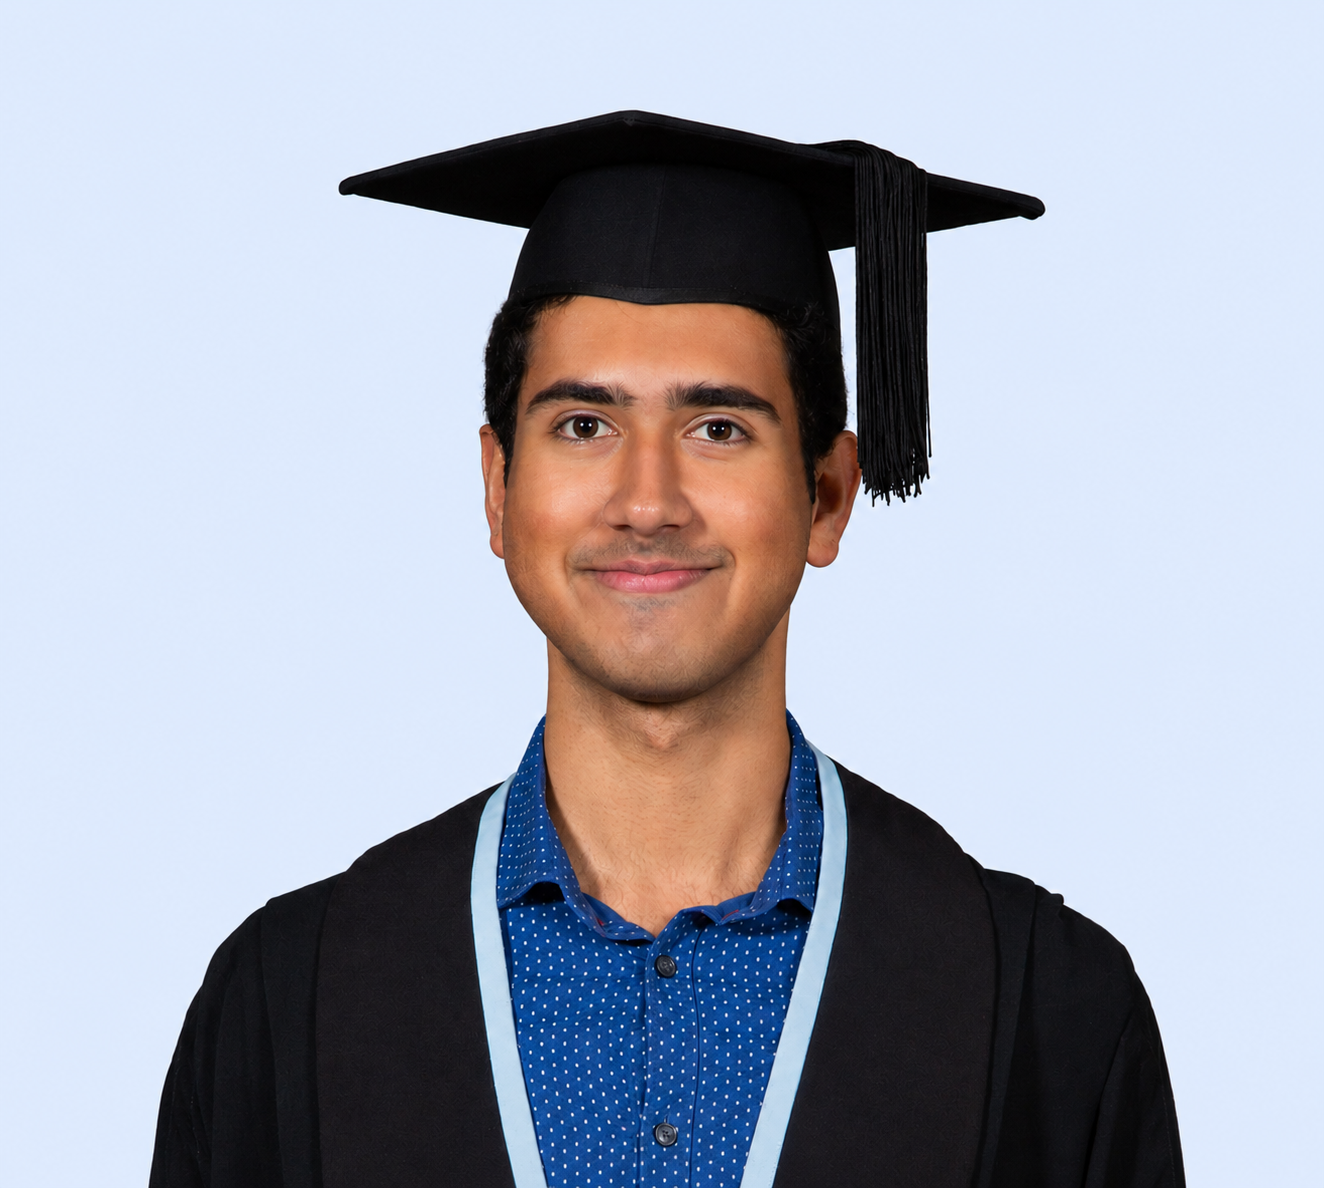
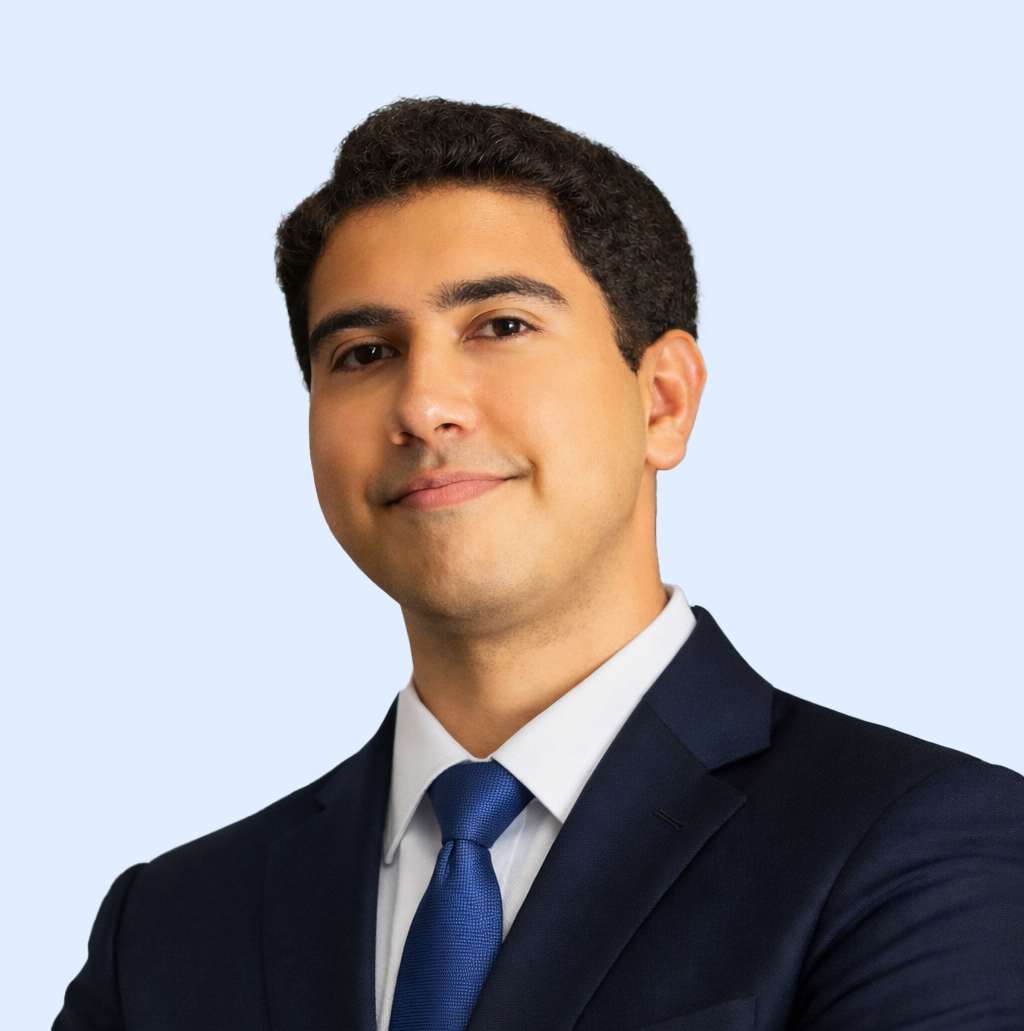
UI polish: navbar slide-in, profile photo, project cards, hero layout, chatbot tooltip
- Fix navbar slide-in animation (removed from shared position:relative rule)
- Profile photo: hover-only neon glow border + lift animation, shifted upward
- Project cards: border-radius 0, no 3D tilt, full-width flush images
- Hero content shifted down, floating scroll arrow removed
- Chatbot toggle tooltip: "Ask me anything!" on hover
- About section: updated bio with bolded key terms, removed old intro paragraph
- "Dual Sponsor" badge updated to "Dual Sponsor Wins"
- Horizontal scroll locked on mobile (overflow-x: clip on body)

diff --git a/styles.css b/styles.css
@@ -118,6 +118,7 @@ body {
     color: var(--color-text);
     background: transparent;
     overscroll-behavior: none;
+    overflow-x: clip;
     transition: color var(--transition-slow);
 }
 
@@ -195,7 +196,15 @@ button {
     backdrop-filter: blur(20px);
     -webkit-backdrop-filter: blur(20px);
     border-bottom: 1px solid var(--color-border);
-    transition: all var(--transition-base);
+    transform: translateY(-100%);
+    transition: transform 0.42s cubic-bezier(0.22, 1, 0.36, 1),
+                box-shadow var(--transition-base),
+                background var(--transition-base),
+                border-color var(--transition-base);
+}
+
+.navbar.nav-visible {
+    transform: translateY(0);
 }
 
 [data-theme="dark"] .navbar {
@@ -204,6 +213,14 @@ button {
 
 .navbar.scrolled {
     box-shadow: var(--shadow-md);
+    background: rgba(250, 250, 250, 0.95);
+    border-bottom-color: var(--color-primary);
+    border-bottom-width: 1px;
+}
+
+[data-theme="dark"] .navbar.scrolled {
+    background: rgba(12, 18, 34, 0.97);
+    border-bottom-color: rgba(14, 165, 233, 0.35);
 }
 
 .nav-container {
@@ -416,8 +433,8 @@ button {
     display: flex;
     align-items: center;
     position: relative;
-    padding-top: 70px;
-    padding-bottom: 8rem;
+    padding-top: 140px;
+    padding-bottom: 6rem;
     overflow: hidden;
 }
 
@@ -498,11 +515,9 @@ button {
 }
 
 /* All page content sits above the fixed background */
-.navbar,
 .hero,
 .section,
 footer,
-.mobile-menu,
 .scroll-to-top,
 .chatbot-widget {
     position: relative;
@@ -687,7 +702,7 @@ footer,
 /* Scroll Indicator */
 .scroll-indicator {
     position: absolute;
-    bottom: calc(var(--spacing-xl) + 3rem);
+    bottom: calc(var(--spacing-xl) + 1rem);
     left: 50%;
     transform: translateX(-50%);
     display: flex;
@@ -951,7 +966,7 @@ footer,
 
 .project-card {
     background: var(--color-card);
-    border-radius: var(--radius-xl);
+    border-radius: 0;
     overflow: hidden;
     border: 1px solid var(--color-border);
     transition: all var(--transition-base);
@@ -991,11 +1006,10 @@ footer,
     inset: 0;
     width: 100%;
     height: 100%;
-    object-fit: contain;
-    object-position: center;
+    object-fit: cover;
+    object-position: center top;
     display: block;
     transition: transform 0.4s ease;
-    padding: 8px;
 }
 
 .project-card:hover .project-img {
@@ -2020,6 +2034,17 @@ footer,
     z-index: 2;
     box-shadow: var(--shadow-2xl);
     display: block;
+    margin-top: -24px;
+    transition: box-shadow 0.35s ease, transform 0.35s ease;
+}
+
+.profile-photo:hover {
+    transform: translateY(-4px) scale(1.01);
+    box-shadow:
+        0 0 0 3px var(--color-primary),
+        0 0 18px 4px rgba(14, 165, 233, 0.45),
+        0 0 40px 8px rgba(14, 165, 233, 0.18),
+        var(--shadow-2xl);
 }
 
 @media (max-width: 768px) {
@@ -2776,12 +2801,12 @@ footer,
 
 .project-card {
     transition: opacity 0.3s ease, transform 0.3s ease, border-color 0.25s ease, box-shadow 0.25s ease;
+    will-change: transform;
 }
 
 /* ==========================================
-   3D Card Tilt
+   3D Card Tilt (award/edu cards only)
    ========================================== */
-.project-card,
 .edu-card,
 .award-card,
 .cert-card {
@@ -2838,15 +2863,13 @@ footer,
 }
 
 /* ==========================================
-   Glowing card shine on 3D tilt
+   Glowing card shine on 3D tilt (award/edu only)
    ========================================== */
-.project-card,
 .award-card,
 .edu-card {
     position: relative;
 }
 
-.project-card::before,
 .award-card::before,
 .edu-card::before {
     content: '';
@@ -2860,13 +2883,11 @@ footer,
     z-index: 0;
 }
 
-.project-card:hover::before,
 .award-card:hover::before,
 .edu-card:hover::before {
     opacity: 1;
 }
 
-.project-card > *,
 .award-card > *,
 .edu-card > * {
     position: relative;
@@ -3018,6 +3039,40 @@ footer,
 .chatbot-toggle:hover {
     transform: scale(1.1);
     box-shadow: 0 8px 28px rgba(14,165,233,0.55), 0 2px 6px rgba(0,0,0,0.12);
+}
+
+.chatbot-tooltip {
+    position: absolute;
+    right: calc(100% + 12px);
+    top: 50%;
+    transform: translateY(-50%) translateX(6px);
+    background: var(--color-card);
+    color: var(--color-text);
+    font-size: var(--font-size-sm);
+    font-weight: 500;
+    white-space: nowrap;
+    padding: 6px 12px;
+    border-radius: var(--radius-md);
+    border: 1px solid var(--color-border);
+    box-shadow: var(--shadow-lg);
+    pointer-events: none;
+    opacity: 0;
+    transition: opacity 0.2s ease, transform 0.2s ease;
+}
+
+.chatbot-tooltip::after {
+    content: '';
+    position: absolute;
+    left: 100%;
+    top: 50%;
+    transform: translateY(-50%);
+    border: 5px solid transparent;
+    border-left-color: var(--color-border);
+}
+
+.chatbot-toggle:hover .chatbot-tooltip {
+    opacity: 1;
+    transform: translateY(-50%) translateX(0);
 }
 
 .chatbot-toggle i {

diff --git a/index.html b/index.html
@@ -112,11 +112,6 @@
                 </div>
             </div>
         </div>
-        <div class="scroll-indicator">
-            <div class="scroll-arrow">
-                <i class="fas fa-chevron-down"></i>
-            </div>
-        </div>
     </section>
 
     <!-- About Section -->
@@ -130,14 +125,9 @@
             <div class="about-content">
                 <div class="about-text">
                     <p class="about-intro">
-                        A computer science student designing the frontend of web apps and building AI-powered platforms, with a growing
-                        passion for machine learning and its real-world applications. Currently pursuing a
-                        <a href="https://study.auckland.ac.nz/ords/r/uoa/catalogue/plan?p7_code=COMP-BSc&_gl=1*tlxsb6*_gcl_au*NjQ5NzQ1NzIyLjE3NjY2MjU0NDE.*_ga*MTk5MTM3NzM4NC4xNzU4NzUzODE2*_ga_SJ5FRP7YTL*czE3NzE5MzEyNTckbzE2MSRnMSR0MTc3MTkzMjE3NSRqNjAkbDAkaDA." target="_blank" class="bsc-link">Bachelor of Science in Computer Science</a>
-                        at the <a href="https://www.auckland.ac.nz/" target="_blank" class="uoa-link">University of Auckland</a>.
+                        Penultimate Computer Science student with Full-Stack and Machine Learning experience, having <strong>won 2 hackathons</strong> through strong innovation and teamwork. <strong>Technical Executive</strong> at a <strong>Google-backed community of 140+ members</strong>, <strong>lead organiser</strong> of an international programming contest, with <strong>startup experience</strong> in New Zealand, and passionate about building impactful projects. Actively seeking <strong>software engineering or technical internships</strong> where I can apply my skills to real-world problems.
                     </p>
-                    <p class="lead">
-                        Started building for the web at 14. We built the first ever digital magazine of our school with over 20,000 lines of code. It's been hard to stop since.
-                    </p>
+
                     <!-- Wins -->
                     <div class="about-wins-card">
                         <div class="about-card-label"><i class="fas fa-trophy"></i> Hackathon &amp; Contest Wins</div>
@@ -150,7 +140,7 @@
                                 </div>
                             </li>
                             <li>
-                                <span class="win-badge win-badge--web3">Dual Sponsor</span>
+                                <span class="win-badge win-badge--web3">Dual Sponsor Wins</span>
                                 <div class="win-detail">
                                     <span class="win-title">WEB3UOA Hackathon · Avalanche &amp; NewMoney</span>
                                     <span class="win-project">L2Earn</span>
@@ -1147,6 +1137,7 @@
     <div class="chatbot-widget" id="chatbotWidget">
         <button class="chatbot-toggle" id="chatbotToggle" aria-label="Chat with Puranjay">
             <i class="fas fa-comment-dots"></i>
+            <span class="chatbot-tooltip">Ask me anything!</span>
         </button>
         <div class="chatbot-panel" id="chatbotPanel" aria-hidden="true">
             <div class="chatbot-header">

diff --git a/script.js b/script.js
@@ -121,9 +121,20 @@ function initNavigation() {
     const navbar = document.querySelector('.navbar');
     const navLinks = document.querySelectorAll('.nav-links a, .mobile-nav-links a');
 
-    window.addEventListener('scroll', () => {
-        navbar.classList.toggle('scrolled', window.pageYOffset > 50);
+    // Slide the navbar in shortly after page load
+    requestAnimationFrame(() => {
+        setTimeout(() => {
+            navbar.classList.add('nav-visible');
+        }, 120);
     });
+
+    // Scroll state: enhanced frosted-glass when not at top
+    function updateNavState() {
+        const scrolled = window.pageYOffset > 60;
+        navbar.classList.toggle('scrolled', scrolled);
+    }
+    window.addEventListener('scroll', updateNavState, { passive: true });
+    updateNavState();
 
     navLinks.forEach(link => {
         link.addEventListener('click', (e) => {
@@ -300,7 +311,7 @@ window.addEventListener('scroll', () => {
 function init3DCardTilt() {
     if (window.matchMedia('(pointer: coarse)').matches) return; // skip on touch
 
-    const cards = document.querySelectorAll('.project-card, .award-card, .edu-card');
+    const cards = document.querySelectorAll('.award-card, .edu-card');
 
     cards.forEach(card => {
         card.addEventListener('mouseenter', () => {